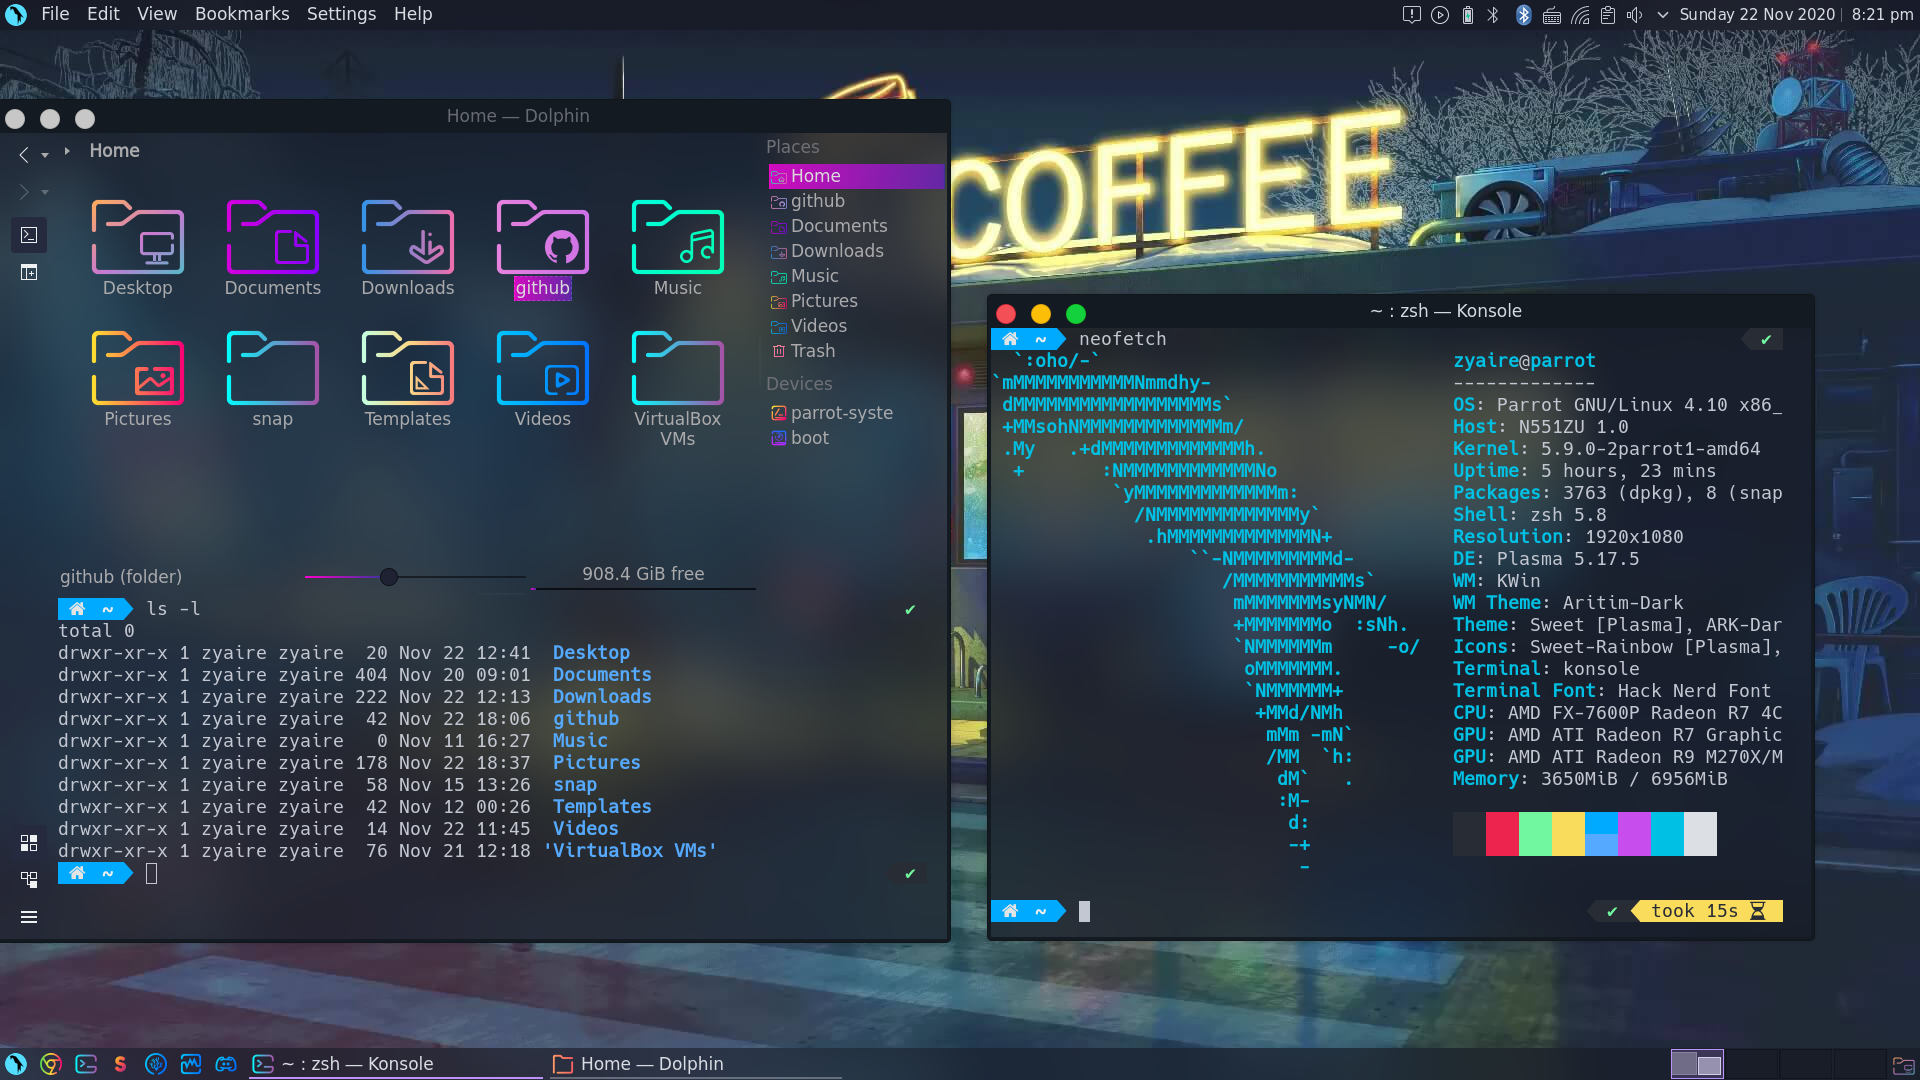
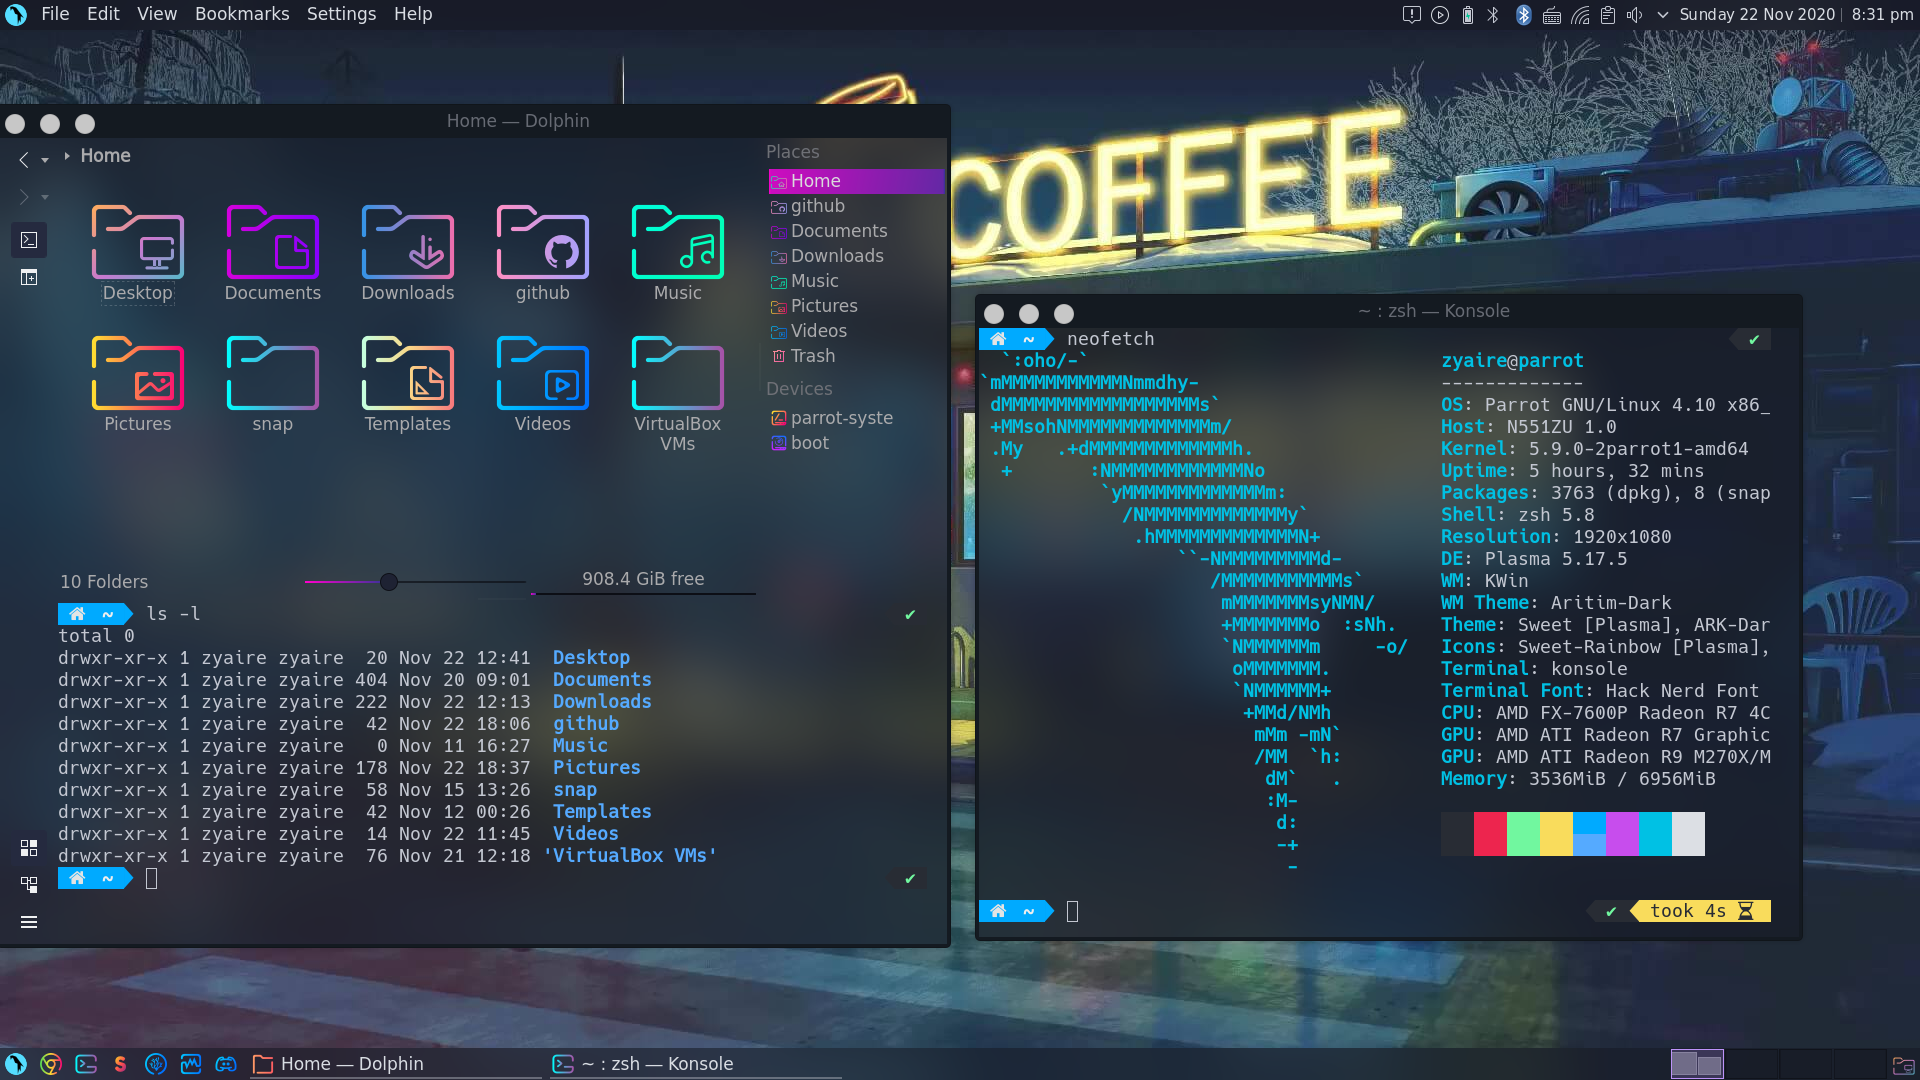
Done Terminal

diff --git a/Parrot-4-10/04-terminal.md b/Parrot-4-10/04-terminal.md
@@ -1,0 +1,13 @@
+### Basic Theme
+- `Settings > Edit Current Profile > Appearance > Sweet`
+- `Edit the Blue Scheme on Color 5`
+- `Blur background with 30% Transparency`
+
+### Zsh
+- `Settings > Edit Current Profile > General > /bin/zsh`
+- [Oh My Zsh](https://github.com/ohmyzsh/ohmyzsh)
+- `sh -c "$(curl -fsSL https://raw.githubusercontent.com/ohmyzsh/ohmyzsh/master/tools/install.sh)"`
+- [PowerLevel10k](https://github.com/romkatv/powerlevel10k)
+
+### Terminal Font
+- [Hack Nerd Fonts](https://github.com/ryanoasis/nerd-fonts/blob/master/patched-fonts/Hack/Regular/complete/Hack%20Regular%20Nerd%20Font%20Complete.ttf)

diff --git a/Ubuntu-20-04/02-terminal.md b/Ubuntu-20-04/02-terminal.md
@@ -12,7 +12,8 @@ tmux source-file .tmux.conf
 ```
 
 ### Installing Nerd-Fonts (Terminal Emoji)
-- https://github.com/ryanoasis/nerd-fonts/blob/master/patched-fonts/Hack/Regular/complete/Hack%20Regular%20Nerd%20Font%20Complete.ttf
+- [Hack Nerd Fonts](https://github.com/ryanoasis/nerd-fonts/blob/master/patched-fonts/Hack/Regular/complete/Hack%20Regular%20Nerd%20Font%20Complete.ttf)
+
 
 ### Zsh Setup
 - `sh -c "$(curl -fsSL https://raw.githubusercontent.com/ohmyzsh/ohmyzsh/master/tools/install.sh)"`  

diff --git a/Parrot-4-10/03-themes.md b/Parrot-4-10/03-themes.md
@@ -15,4 +15,4 @@ System Settings > Icons > [Sweet Folders](https://store.kde.org/p/1284047)
 - Extract and move to `/home/$USER/.kde/`
 - Open Kvantum and Install Theme
 - Select Sweet as Theme
-
+- `Kvantum Active Theme > Compositing & General Look > Translucent Windows > Reduce Windows Opacity by 30%`
